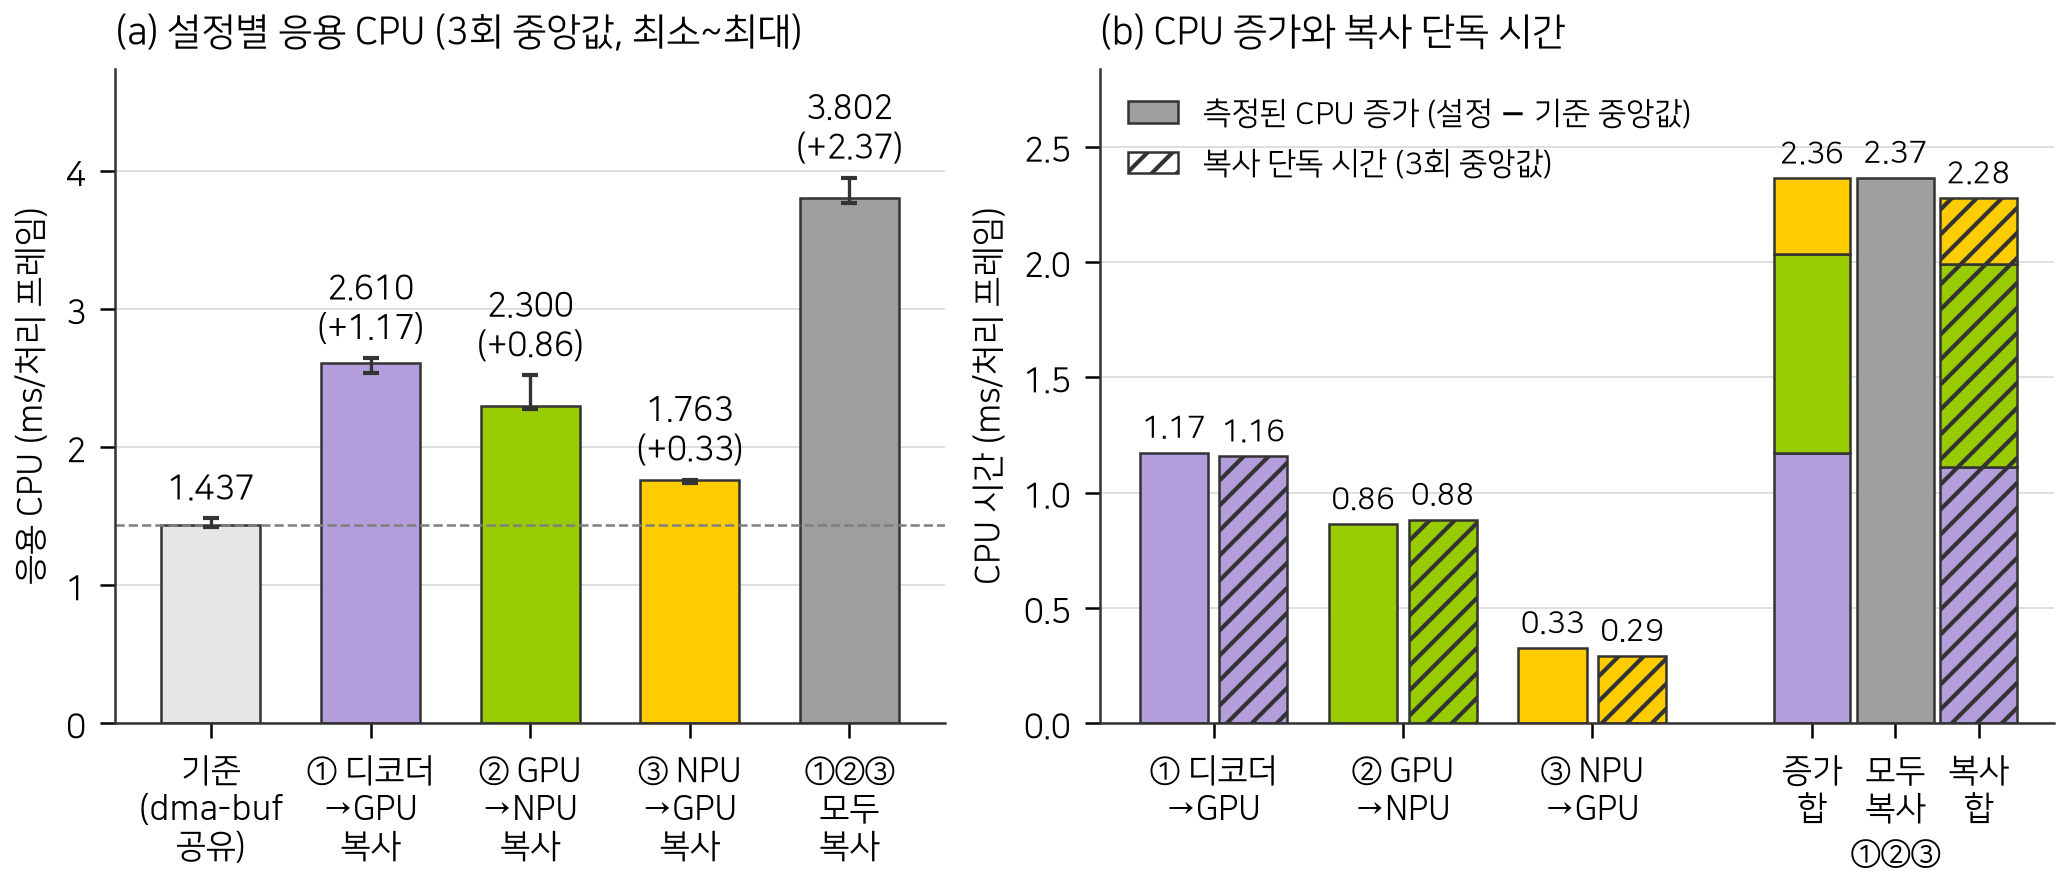
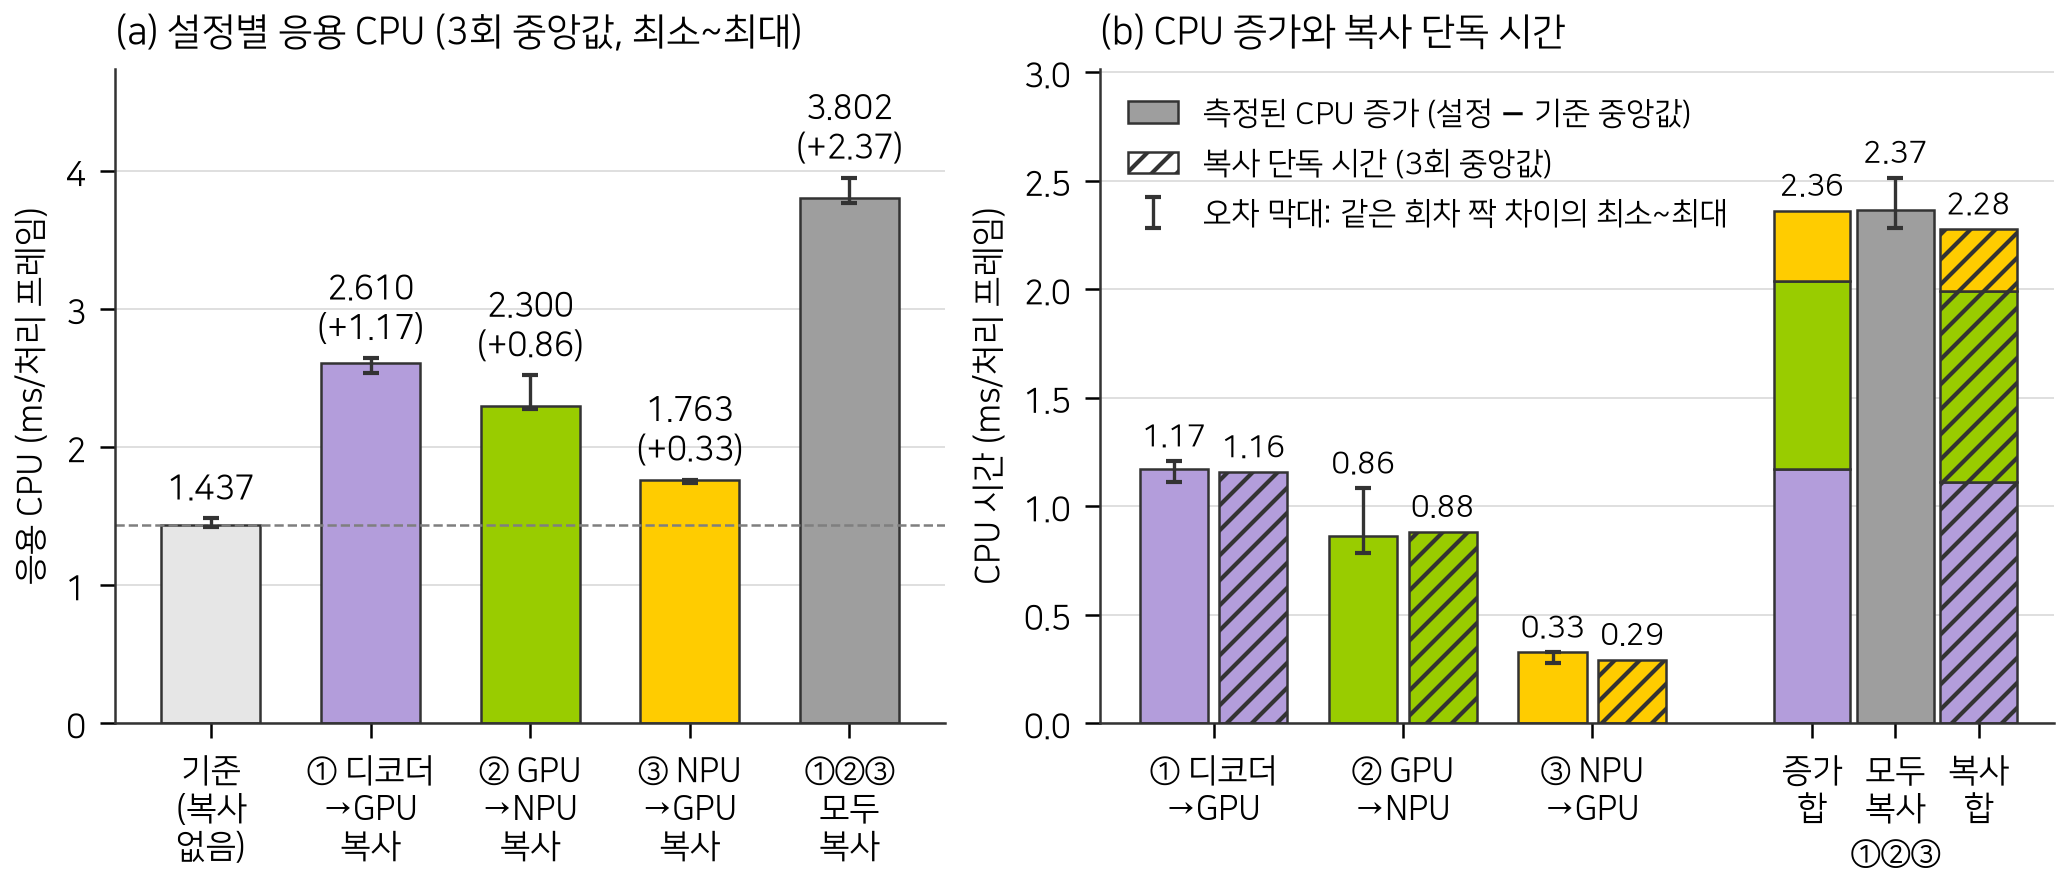
paper(§7.1·§8·A.2): 구간별 복사 생략 비교(그림 15) 반영, 검토 반영
- §7.1: 세 구간을 같은 회차에서 다시 잰 결과(+1.17·+0.86·+0.33, 모두 +2.37 ms, 더해짐)와 해석 문단, 그림 15·캡션
- 검토 반영: "적용 전 대비 약 5%" 삭제(절대값·남은 CPU 대비만), "복사 생략(제로 카피)" 용어,
  2.6배의 대안 조건, 실행 간 폭 안 일치, 입력 버림 병기, §8 결론 갱신, A.2 측정 빌드·커밋 관계
- 그림 15: 기준 라벨 "복사 없음", (b) 증가 막대에 같은 회차 짝 차이 최소~최대
- 등록부 15번 행 논문 절 §7.1

Claude-Session: https://claude.ai/code/session_01HrRftuyxzwud5AoujnGMPw

diff --git a/06_tools/python/paper/fig15_dmabuf_copy_ablation.py b/06_tools/python/paper/fig15_dmabuf_copy_ablation.py
@@ -5,6 +5,9 @@
 (b) Per hand-off, the measured CPU increase (setting median - base median) next to the copy time alone (per processed frame,
     median of 3 runs). The last group compares the sum of the three single increases with the all_copy increase (they add up)
     and with the all_copy copy time.
+    Error bars on the measured increases (the three hand-offs and all_copy, not the stacked sum): min-max of the paired
+    differences setting run N - base run N. The bench interleaves the settings inside each run, so equal run numbers ran
+    back to back. The bar height stays the difference of medians, which must lie inside that range.
 Bar colors: each hand-off takes the color of the unit that produces the copied buffer (decoder, GPU, NPU; 09_diagrams
 convention). Measured increases are solid, copy times hatched.
 Sources (under 07_results/technique_ablation/runs/dmabuf_ablation):
@@ -22,6 +25,7 @@ import statistics
 import sys
 from pathlib import Path
 
+from matplotlib.container import ErrorbarContainer
 from matplotlib.patches import Patch
 
 import paper_style as ps
@@ -35,7 +39,7 @@ SETTINGS = ("base", "decode_copy", "input_copy", "output_copy", "all_copy")
 SECTIONS = ("decode", "input", "output")              # stdout stat names, in pipeline order
 SECTION_SETTING = {"decode": "decode_copy", "input": "input_copy", "output": "output_copy"}
 SETTING_LABELS = {
-    "base": "기준\n(dma-buf\n공유)",
+    "base": "기준\n(복사\n없음)",
     "decode_copy": "① 디코더\n→GPU\n복사",
     "input_copy": "② GPU\n→NPU\n복사",
     "output_copy": "③ NPU\n→GPU\n복사",
@@ -135,6 +139,31 @@ def increases(stats: dict[str, tuple[float, float, float]]) -> dict[str, float]:
     return {label: round(stats[label][0] - base, 3) for label in SETTINGS if label != "base"}
 
 
+def paired_ranges(runs: dict[str, list[dict[str, str]]], inc: dict[str, float]) -> dict[str, tuple[float, float]]:
+    """{setting: (min, max)} of setting run N - base run N. The difference of medians must lie inside the range."""
+    base = {x["run"]: float(x["cpu_ms_per_frame"]) for x in runs["base"]}
+    ranges: dict[str, tuple[float, float]] = {}
+    for label in SETTINGS[1:]:
+        own = {x["run"]: float(x["cpu_ms_per_frame"]) for x in runs[label]}
+        if set(own) != set(base):
+            raise ValueError(f"{ps.rel(RAW_CSV)}: {label} runs {sorted(own)} do not pair with base runs {sorted(base)}")
+        diffs = [round(own[r] - base[r], 3) for r in sorted(base, key=int)]   # 3-decimal inputs
+        ranges[label] = (min(diffs), max(diffs))
+        if not ranges[label][0] <= inc[label] <= ranges[label][1]:
+            raise ValueError(f"{label}: difference of medians {inc[label]} outside paired range {ranges[label]}")
+    return ranges
+
+
+def _increase_bar(ax, x: float, value: float, width: float, color: str, rng: tuple[float, float], y_max: float,
+                  kw: dict) -> ErrorbarContainer:
+    """One measured-increase bar with its paired min-max error bar; the value label sits above the error bar."""
+    ax.bar(x, value, width, color=color, **kw)
+    err = ax.errorbar([x], [value], yerr=[[value - rng[0]], [rng[1] - value]], fmt="none", ecolor=ps.EDGE_COLOR,
+                      elinewidth=0.8)
+    _bar_label(ax, x, rng[1], value, y_max)
+    return err
+
+
 def _setting_color(label: str) -> str:
     if label == "base":
         return BASE_COLOR
@@ -172,18 +201,18 @@ def _bar_label(ax, x: float, top: float, value: float, y_max: float) -> None:
             fontsize=ps.FONT_SIZE - 0.5)
 
 
-def draw_explained(ax, inc: dict[str, float], copy: dict[str, dict[str, float]]) -> float:
+def draw_explained(ax, inc: dict[str, float], copy: dict[str, dict[str, float]],
+                   ranges: dict[str, tuple[float, float]]) -> float:
     """Panel (b): increase vs copy time per hand-off, then sum of increases, all_copy increase and all_copy copy time."""
     inc_sum = round(sum(inc[SECTION_SETTING[s]] for s in SECTIONS), 3)
     copy_all = copy["all_copy"]
-    y_max = max(inc_sum, inc["all_copy"], sum(copy_all.values())) * Y_HEADROOM
+    y_max = max(inc_sum, ranges["all_copy"][1], sum(copy_all.values())) * Y_HEADROOM
     w = BAR_WIDTH_B
     kw = {"edgecolor": ps.EDGE_COLOR, "lw": 0.6}
     for i, s in enumerate(SECTIONS):
         v_inc, v_copy = inc[SECTION_SETTING[s]], copy[SECTION_SETTING[s]][s]
-        ax.bar(i - PAIR_OFFSET, v_inc, w, color=SECTION_COLORS[s], **kw)
+        _increase_bar(ax, i - PAIR_OFFSET, v_inc, w, SECTION_COLORS[s], ranges[SECTION_SETTING[s]], y_max, kw)
         ax.bar(i + PAIR_OFFSET, v_copy, w, color=SECTION_COLORS[s], hatch=COPY_HATCH, **kw)
-        _bar_label(ax, i - PAIR_OFFSET, v_inc, v_inc, y_max)
         _bar_label(ax, i + PAIR_OFFSET, v_copy, v_copy, y_max)
 
     # Last group: three bars on a wider pitch so their value labels do not touch.
@@ -195,8 +224,7 @@ def draw_explained(ax, inc: dict[str, float], copy: dict[str, dict[str, float]])
         ax.bar(xs[0], inc[SECTION_SETTING[s]], w3, bottom=bottom, color=SECTION_COLORS[s], **kw)
         bottom += inc[SECTION_SETTING[s]]
     _bar_label(ax, xs[0], bottom, inc_sum, y_max)
-    ax.bar(xs[1], inc["all_copy"], w3, color=ALL_COLOR, **kw)
-    _bar_label(ax, xs[1], inc["all_copy"], inc["all_copy"], y_max)
+    err = _increase_bar(ax, xs[1], inc["all_copy"], w3, ALL_COLOR, ranges["all_copy"], y_max, kw)
     bottom = 0.0
     for s in SECTIONS:                   # all_copy copy time, stacked
         ax.bar(xs[2], copy_all[s], w3, bottom=bottom, color=SECTION_COLORS[s], hatch=COPY_HATCH, **kw)
@@ -211,8 +239,10 @@ def draw_explained(ax, inc: dict[str, float], copy: dict[str, dict[str, float]])
     ax.set_ylabel("CPU 시간 (ms/처리 프레임)")
     ax.set_title("(b) CPU 증가와 복사 단독 시간", loc="left")
     handles = [Patch(fc=ALL_COLOR, ec=ps.EDGE_COLOR, lw=0.6, label="측정된 CPU 증가 (설정 − 기준 중앙값)"),
-               Patch(fc="white", ec=ps.EDGE_COLOR, lw=0.6, hatch=COPY_HATCH, label="복사 단독 시간 (3회 중앙값)")]
-    ax.legend(handles=handles, loc="upper left", fontsize=ps.FONT_SIZE - 0.5, handlelength=1.6)
+               Patch(fc="white", ec=ps.EDGE_COLOR, lw=0.6, hatch=COPY_HATCH, label="복사 단독 시간 (3회 중앙값)"),
+               err]
+    labels = [h.get_label() for h in handles[:2]] + ["오차 막대: 같은 회차 짝 차이의 최소~최대"]
+    ax.legend(handles=handles, labels=labels, loc="upper left", fontsize=ps.FONT_SIZE - 0.5, handlelength=1.6)
     return inc_sum
 
 
@@ -220,10 +250,11 @@ def main(out_dir: str | Path | None = None) -> list[Path]:
     runs, stats = load_cpu()
     copy = load_copy(runs)
     inc = increases(stats)
+    ranges = paired_ranges(runs, inc)
 
     fig, (ax_a, ax_b) = ps.new_figure("double", 7.5, ncols=2, gridspec_kw={"width_ratios": [1.0, 1.15]})
     draw_settings(ax_a, stats, inc)
-    inc_sum = draw_explained(ax_b, inc, copy)
+    inc_sum = draw_explained(ax_b, inc, copy, ranges)
 
     lines = [f"{s}: median {stats[s][0]:.3f} (min {stats[s][1]:.3f}, max {stats[s][2]:.3f}) -> {ps.fmt_half_up(stats[s][0], 3)}"
              + ("" if s == "base" else f", increase {inc[s]:.3f} -> +{ps.fmt_half_up(inc[s], 2)}") for s in SETTINGS]
@@ -235,6 +266,8 @@ def main(out_dir: str | Path | None = None) -> list[Path]:
     copy_all_sum = sum(copy["all_copy"].values())
     lines += [f"sum of single increases {inc_sum:.3f} -> {ps.fmt_half_up(inc_sum, 2)} vs all_copy increase "
               f"{inc['all_copy']:.3f} -> {ps.fmt_half_up(inc['all_copy'], 2)}",
+              *[f"{label} paired difference (run N - base run N) min {lo:.3f} max {hi:.3f} -> "
+                f"{ps.fmt_half_up(lo, 2)}~{ps.fmt_half_up(hi, 2)}" for label, (lo, hi) in ranges.items()],
               f"all_copy copy time sum {copy_all_sum:.4f} -> {ps.fmt_half_up(round(copy_all_sum, 4), 2)}"]
     paths = ps.save(fig, ps.resolve_out_dir(out_dir), STEM)
     ps.report(STEM, [RAW_CSV, SUMMARY_CSV, RUN_DIR / "raw"], lines)

diff --git a/10_paper/figures/README.md b/10_paper/figures/README.md
@@ -25,5 +25,5 @@
 | 12 | `fig12_cpu_saving_by_technique.{svg,png}` | `06_tools/python/paper/fig12_cpu_saving_by_technique.py` | `07_results/technique_ablation/results.csv`, `07_results/decode_benchmark/runs/pipeline_sw_hw/results_raw.csv`, `07_results/decode_benchmark/runs/ffmpeg_outfmt/results_raw.csv`, `07_results/preproc_cpu_vs_gpu/runs/stage_split/results.csv` | 행마다 다름(합산 금지). 행별 조건은 캡션 | §7.1 (임시 번호) |
 | 13 | `fig13_input_layout_paths.{svg,png}` | `06_tools/python/paper/fig13_input_layout_paths.py` | `07_results/technique_ablation/results.csv`, `07_results/preproc_cpu_vs_gpu/runs/stage_split/results.csv` | 신, 호스트 후처리, 배치 1/슬롯 1, 입력 페이싱, 표시·기록 on, performance, 2026-11-06, n=3 | §6.4 (임시 번호) |
 | 14 | `fig14_memory_read_cost.{svg,png}` | `06_tools/python/paper/fig14_memory_read_cost.py` | `07_results/gpu_postprocess/runs/stride_read/`, `07_results/memory_asymmetry/` | 2026-10-16·10-27, ondemand, V3D 1150 MHz, NPU·표시 없음, n=3 | §6.3 (임시 번호) |
-| 15 | `fig15_dmabuf_copy_ablation.{svg,png}` | `06_tools/python/paper/fig15_dmabuf_copy_ablation.py` | `07_results/technique_ablation/runs/dmabuf_ablation/results_raw.csv`, `07_results/technique_ablation/runs/dmabuf_ablation/raw/` | 신, O2 확정 구성(배치 1/슬롯 1, 입력 페이싱 source·큐 1), 표시·기록 on, performance, 2026-11-06, n=3 | 미삽입 |
+| 15 | `fig15_dmabuf_copy_ablation.{svg,png}` | `06_tools/python/paper/fig15_dmabuf_copy_ablation.py` | `07_results/technique_ablation/runs/dmabuf_ablation/results_raw.csv`, `07_results/technique_ablation/runs/dmabuf_ablation/raw/` | 신, O2 확정 구성(배치 1/슬롯 1, 입력 페이싱 source·큐 1), 표시·기록 on, performance, 2026-11-06, n=3 | §7.1 (임시 번호) |
 
